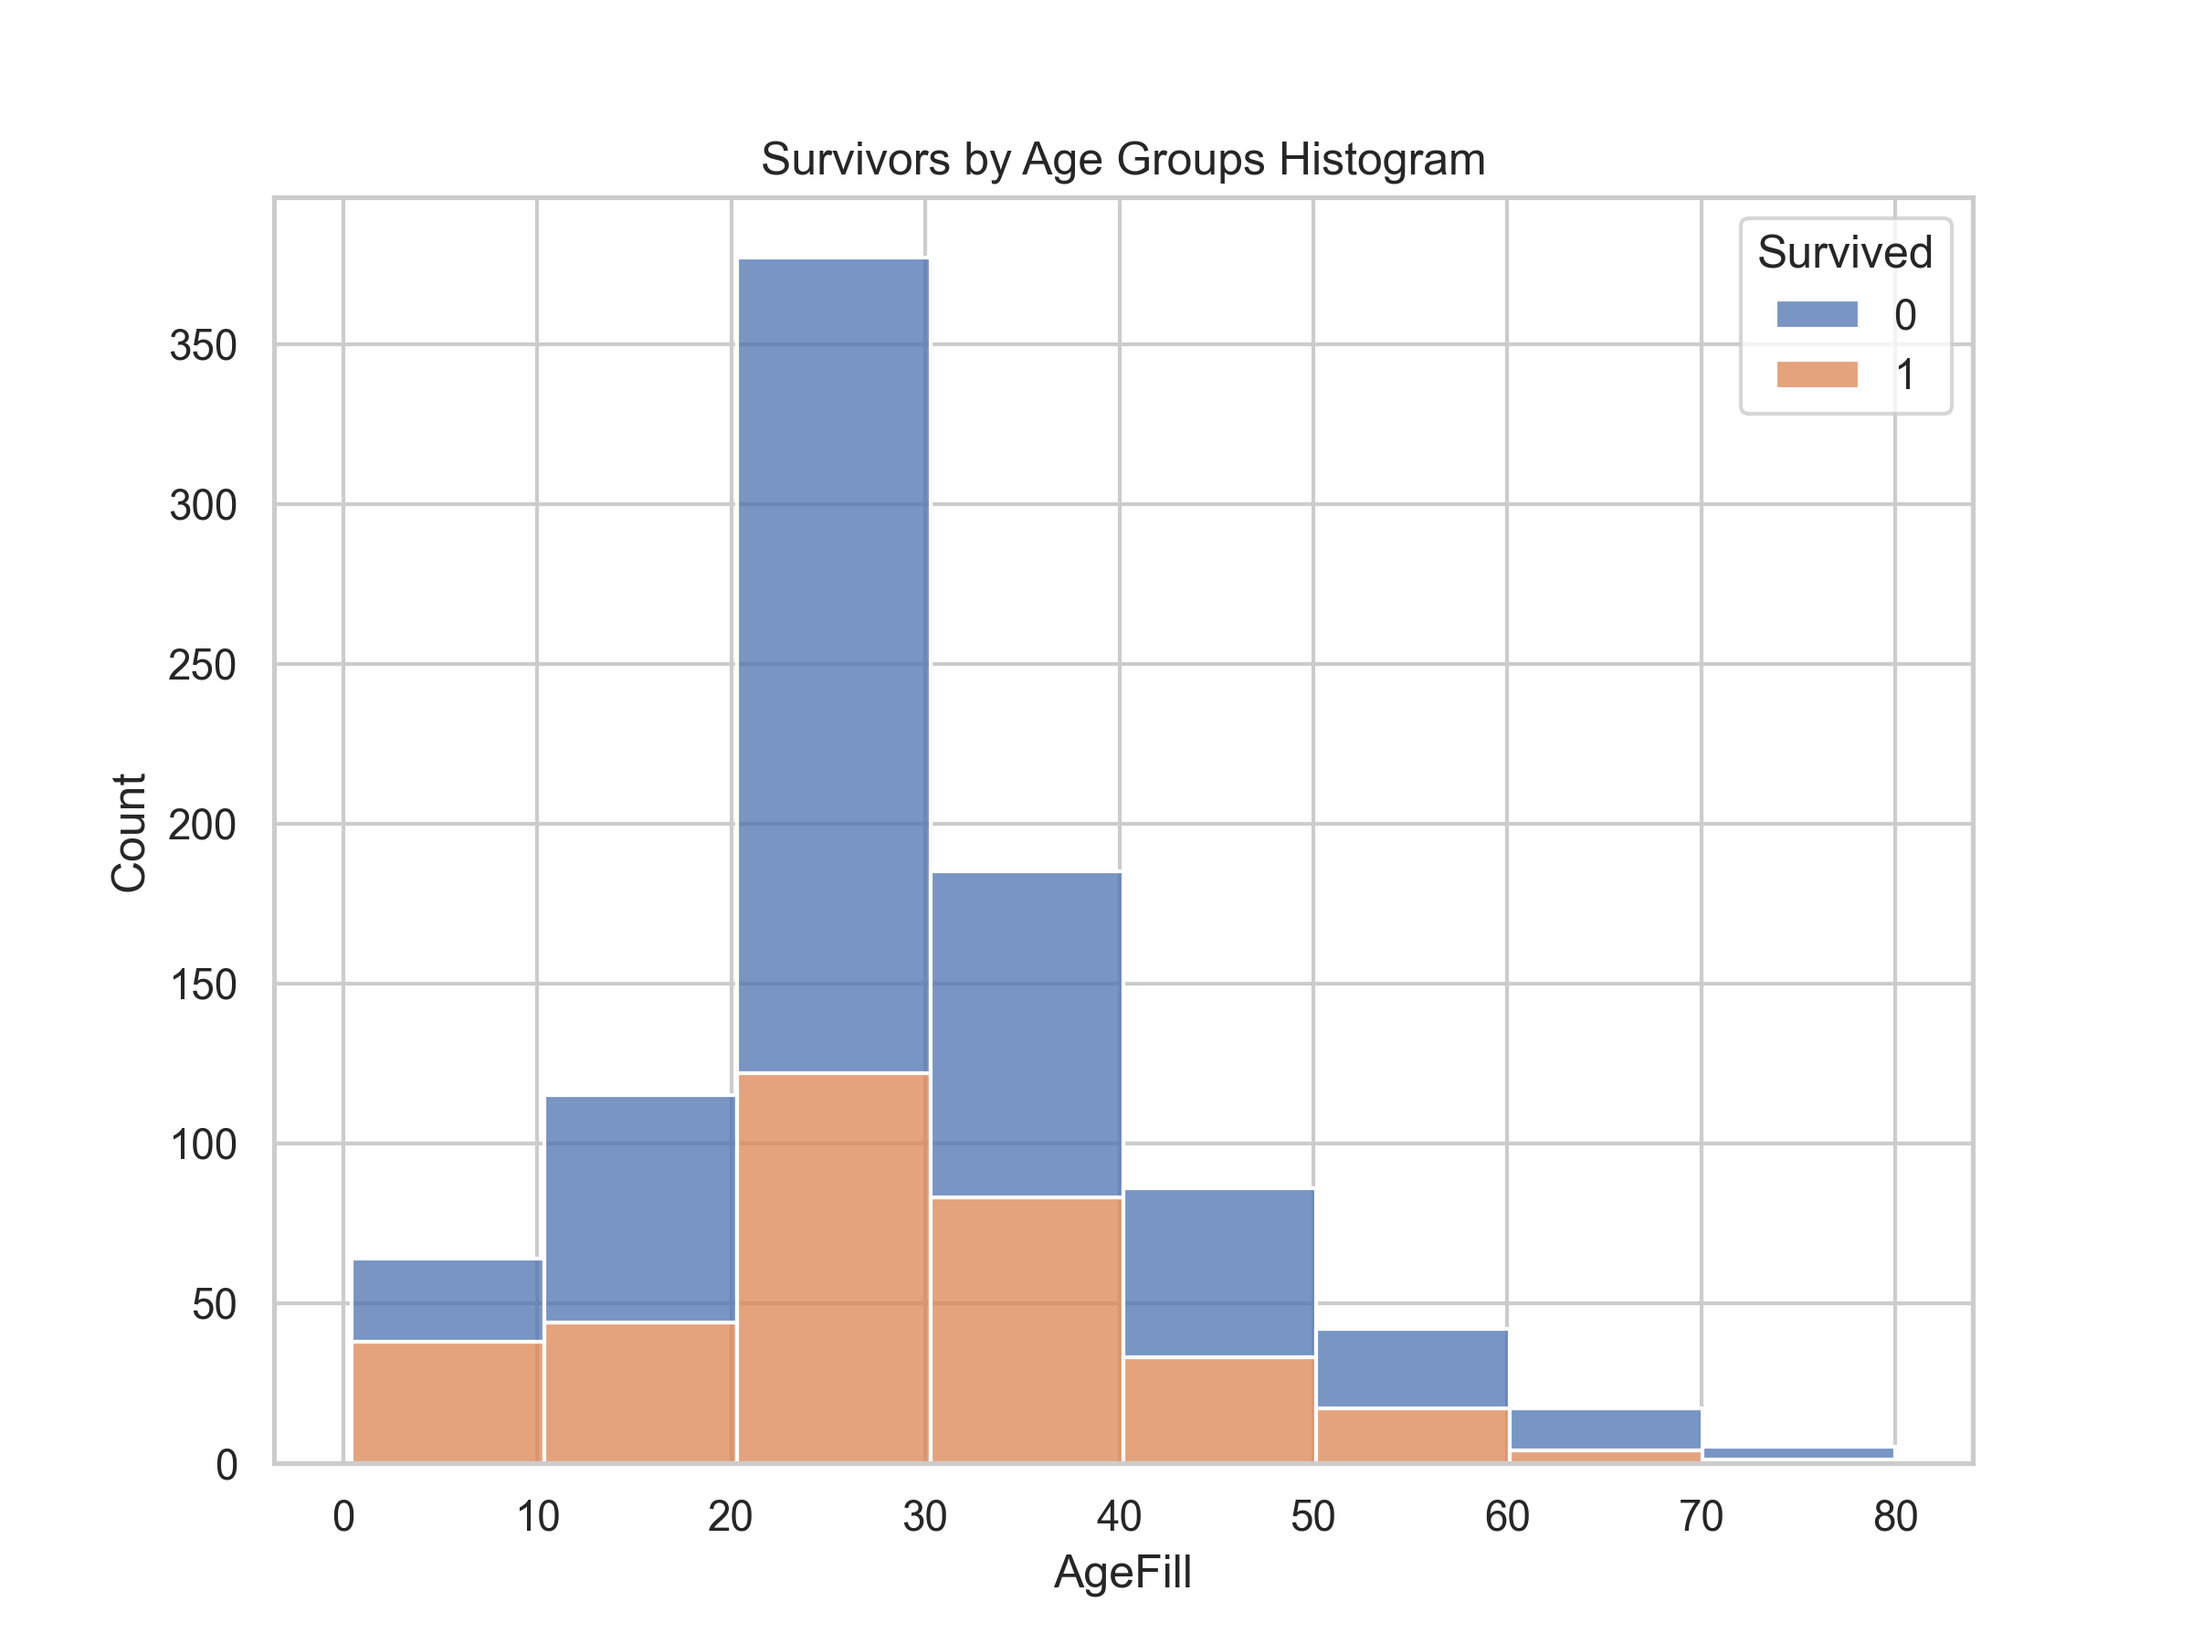
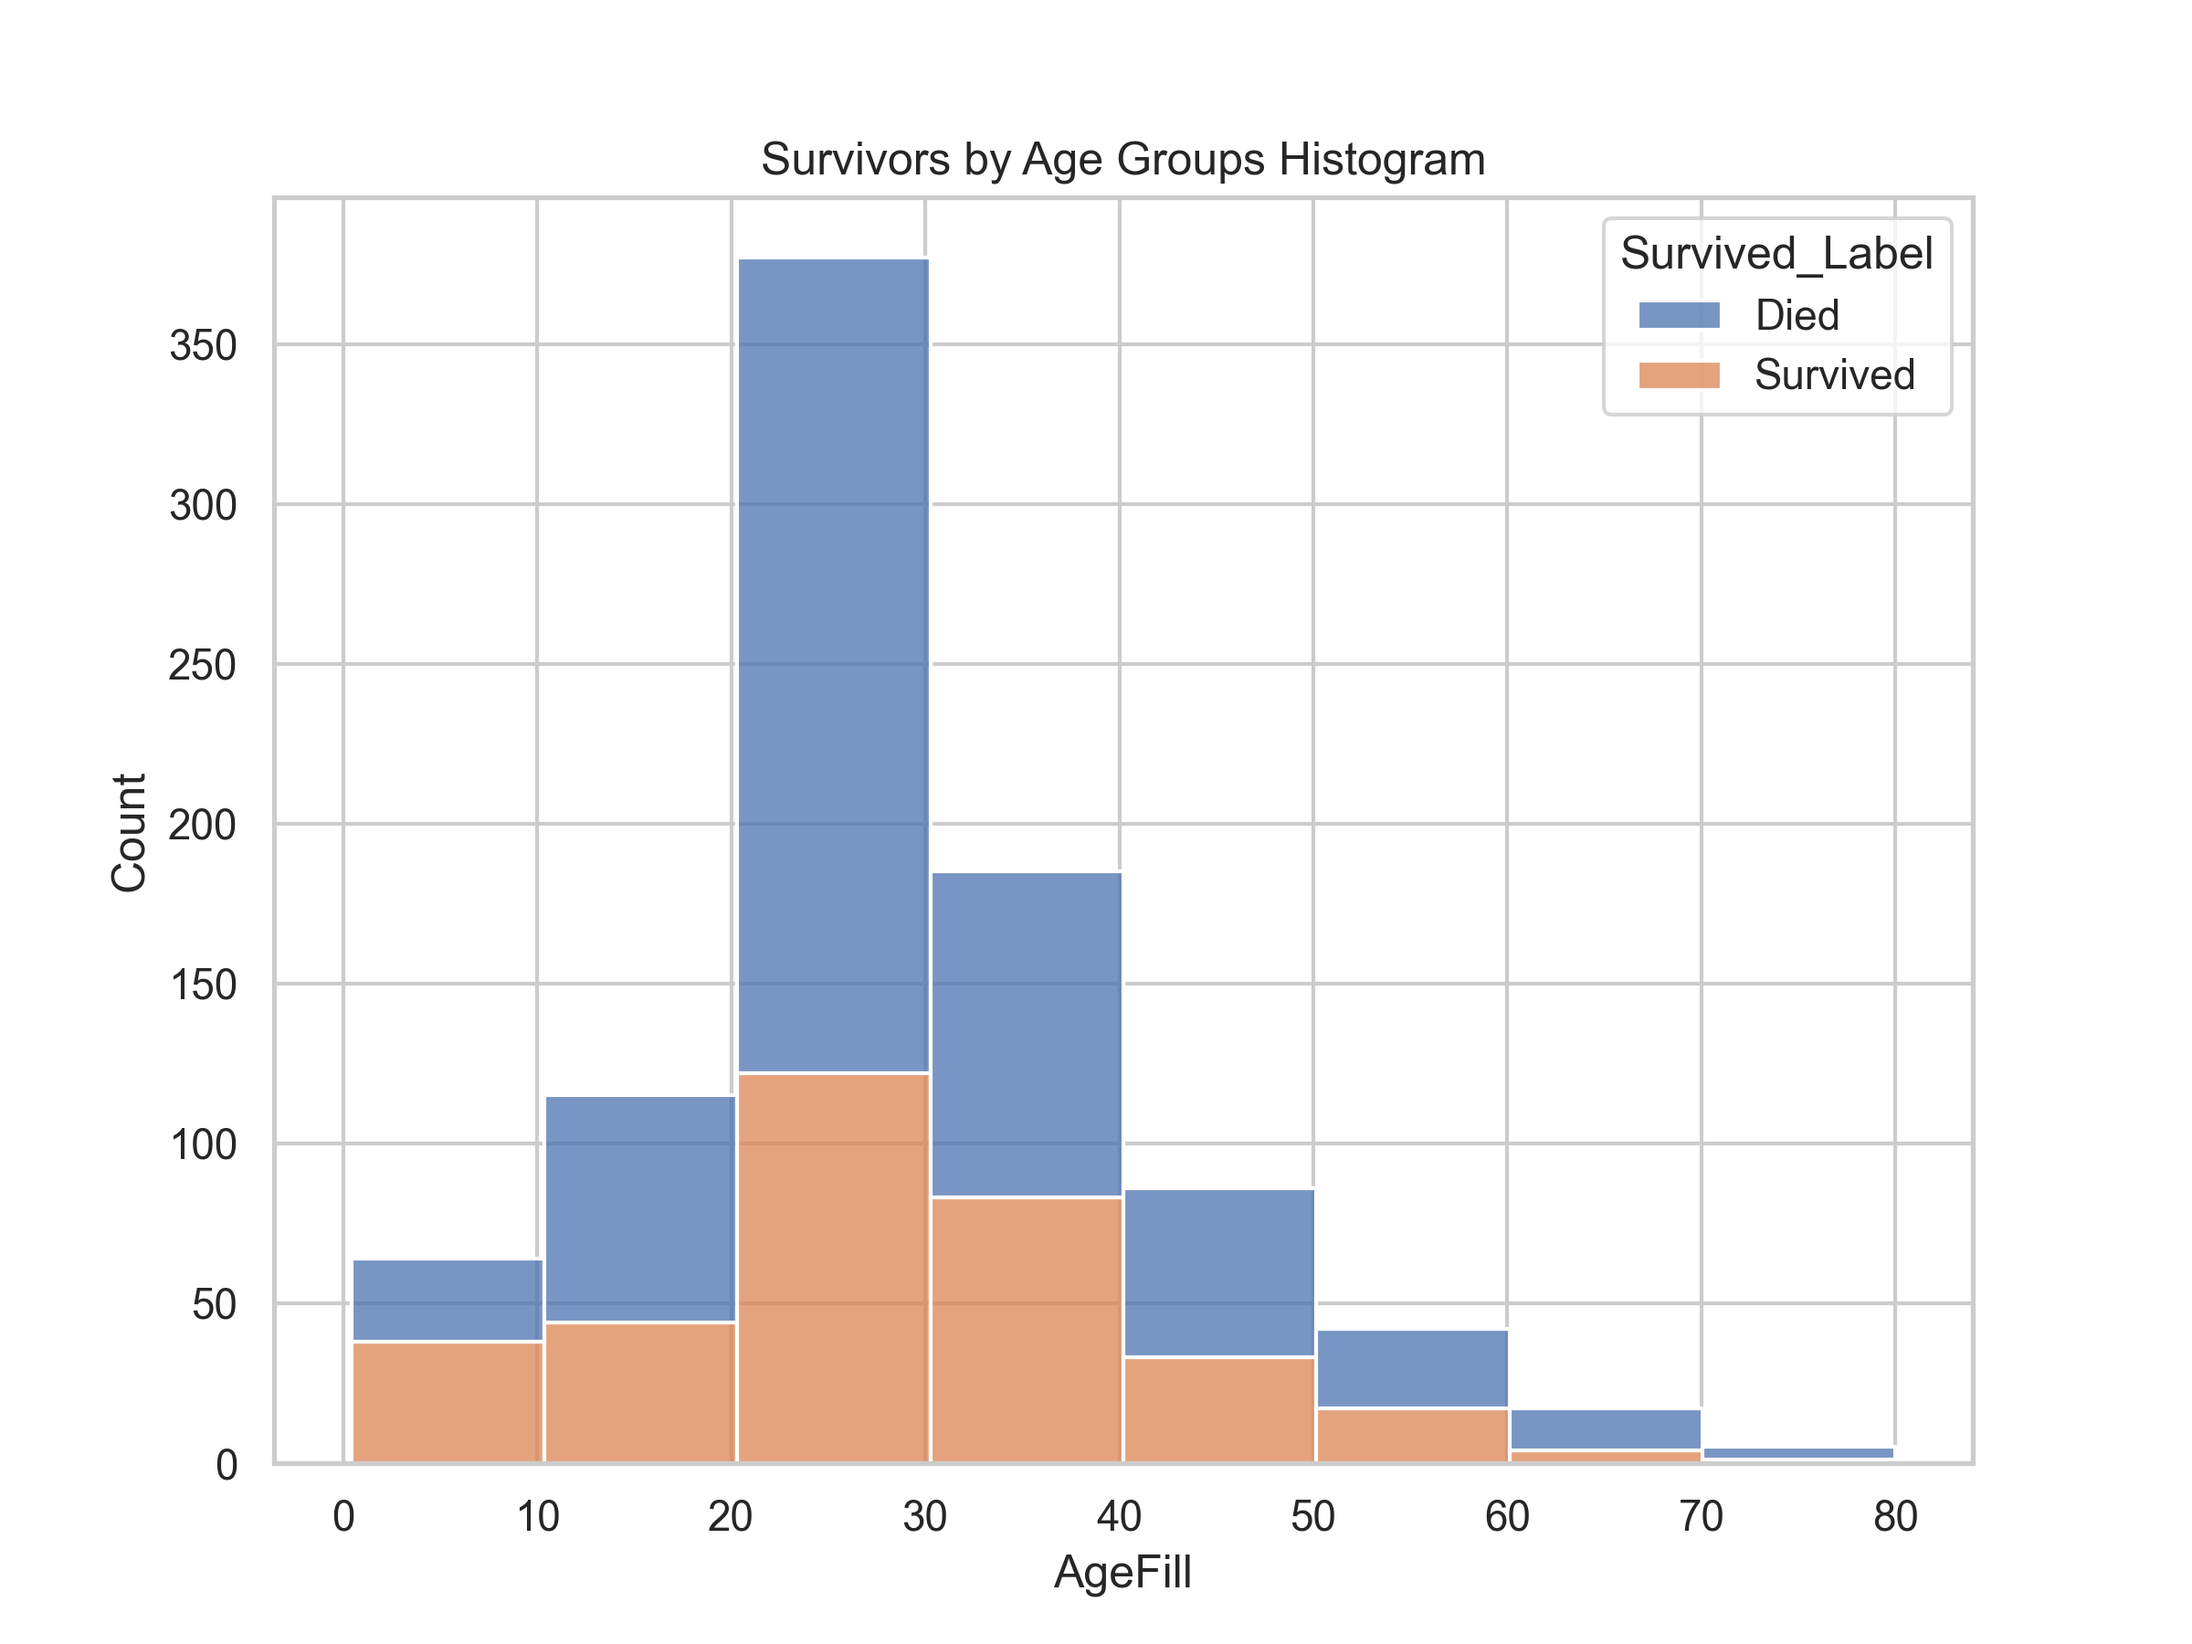
refactor: normalize graph labels

Changed region(s): [[0.7188, 0.1244, 0.875, 0.2489]]

diff --git a/visualize_data.py b/visualize_data.py
@@ -14,6 +14,14 @@ def visualize_data(file_path: str | Path, output_dir: str | Path = "plots") -> N
     out_path = Path(output_dir)
     out_path.mkdir(parents=True, exist_ok=True)
 
+    # Map raw values to descriptive labels
+    df["Survived_Label"] = df["Survived"].map({0: "Died", 1: "Survived"})
+    df["Sex"] = df["Sex"].str.title()
+    df["Pclass_Label"] = df["Pclass"].map({1: "1st Class", 2: "2nd Class", 3: "3rd Class"})
+    df["Embarked"] = df["Embarked"].map({"C": "Cherbourg", "Q": "Queenstown", "S": "Southampton"})
+    
+    pclass_order = ["1st Class", "2nd Class", "3rd Class"]
+
     # Global plot styling
     sns.set_theme(style="whitegrid")
 
@@ -21,12 +29,14 @@ def visualize_data(file_path: str | Path, output_dir: str | Path = "plots") -> N
     fig, axes = plt.subplots(nrows=3, ncols=2, figsize=(12, 12))
 
     # Survival Counts
-    sns.countplot(data=df, x="Survived", ax=axes[0, 0])
+    sns.countplot(data=df, x="Survived_Label", ax=axes[0, 0], order=["Died", "Survived"])
     axes[0, 0].set_title("Survival Counts")
+    axes[0, 0].set_xlabel("Survival Status")
 
     # Pclass Counts
-    sns.countplot(data=df, x="Pclass", ax=axes[0, 1])
+    sns.countplot(data=df, x="Pclass_Label", ax=axes[0, 1], order=pclass_order)
     axes[0, 1].set_title("Passenger Class Counts")
+    axes[0, 1].set_xlabel("Passenger Class")
 
     # Gender Counts
     sns.countplot(data=df, x="Sex", ax=axes[1, 0])
@@ -50,8 +60,9 @@ def visualize_data(file_path: str | Path, output_dir: str | Path = "plots") -> N
     # 2. Survival Rate by Feature
     # Pclass
     plt.figure(figsize=(8, 6))
-    sns.barplot(data=df, x="Pclass", y="Survived", errorbar=None)
+    sns.barplot(data=df, x="Pclass_Label", y="Survived", errorbar=None, order=pclass_order)
     plt.title("Survival Rate by Pclass")
+    plt.xlabel("Passenger Class")
     plt.savefig(out_path / "survival_rate_pclass.png", dpi=300)
     plt.close()
 
@@ -64,7 +75,7 @@ def visualize_data(file_path: str | Path, output_dir: str | Path = "plots") -> N
 
     # Age Groups
     plt.figure(figsize=(8, 6))
-    sns.histplot(data=df, x="AgeFill", hue="Survived", multiple="stack", bins=8)
+    sns.histplot(data=df, x="AgeFill", hue="Survived_Label", multiple="stack", bins=8)
     plt.title("Survivors by Age Groups Histogram")
     plt.savefig(out_path / "survival_rate_age.png", dpi=300)
     plt.close()
@@ -74,7 +85,7 @@ def visualize_data(file_path: str | Path, output_dir: str | Path = "plots") -> N
     sns.histplot(
         data=df,
         x="FamilySize",
-        hue="Survived",
+        hue="Survived_Label",
         multiple="stack",
         bins=int(df["FamilySize"].max()) + 1,
     )
